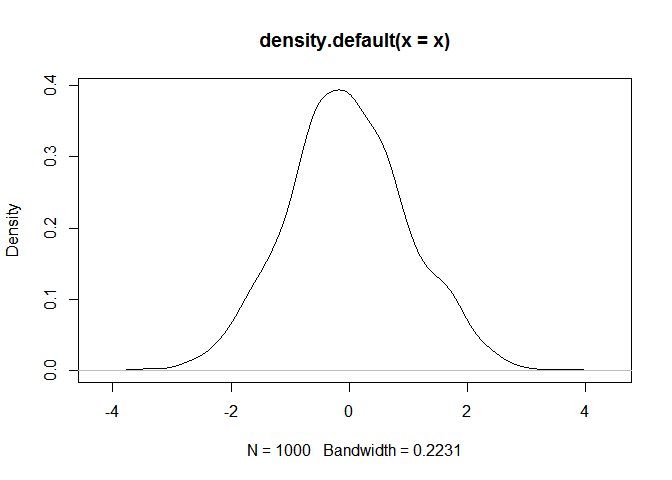
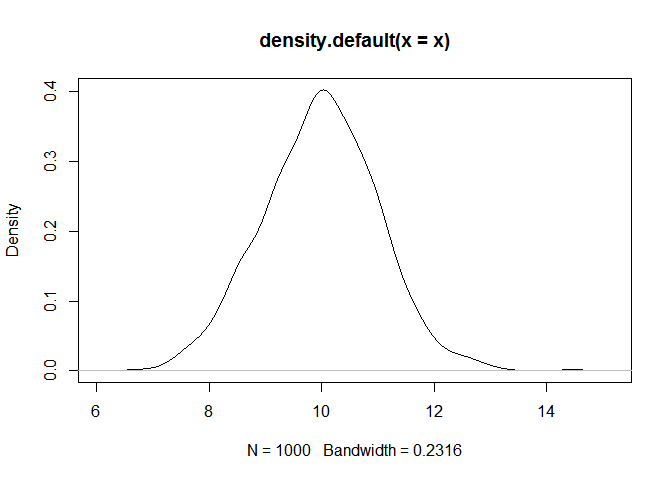
changed random numbers + 10

diff --git a/rmarkdown-rocks.html b/rmarkdown-rocks.html
@@ -129,14 +129,14 @@ $(document).ready(function () {
 <p>This is an R Markdown document. Markdown is a simple formatting syntax for authoring HTML, PDF, and MS Word documents. For more details on using R Markdown see <a href="http://rmarkdown.rstudio.com" class="uri">http://rmarkdown.rstudio.com</a>.</p>
 <p>When you click the <strong>Knit</strong> button a document will be generated that includes both content as well as the output of any embedded R code chunks within the document. You can embed an R code chunk like this:</p>
 <pre class="r"><code>#summary(cars)
-x &lt;- rnorm(1000)
+x &lt;- rnorm(1000) + 10
 head(x)</code></pre>
-<pre><code>## [1] -0.93216613  0.02857919 -2.07320137  1.10493140 -0.45107115  1.67368239</code></pre>
+<pre><code>## [1] 10.464502  8.802086  8.300839 10.875741  9.412881 11.087176</code></pre>
 </div>
 <div id="including-plots" class="section level2">
 <h2>Including Plots</h2>
 <p>You can also embed plots, for example:</p>
[2 lines of base64/hex data omitted]
 <p>Note that the <code>echo = FALSE</code> parameter was added to the code chunk to prevent printing of the R code that generated the plot.</p>
 </div>
 

diff --git a/rmarkdown-rocks.md b/rmarkdown-rocks.md
@@ -13,12 +13,12 @@ When you click the **Knit** button a document will be generated that includes bo
 
 ```r
 #summary(cars)
-x <- rnorm(1000)
+x <- rnorm(1000) + 10
 head(x)
 ```
 
 ```
-## [1] -0.93216613  0.02857919 -2.07320137  1.10493140 -0.45107115  1.67368239
+## [1] 10.464502  8.802086  8.300839 10.875741  9.412881 11.087176
 ```
 
 ## Including Plots
